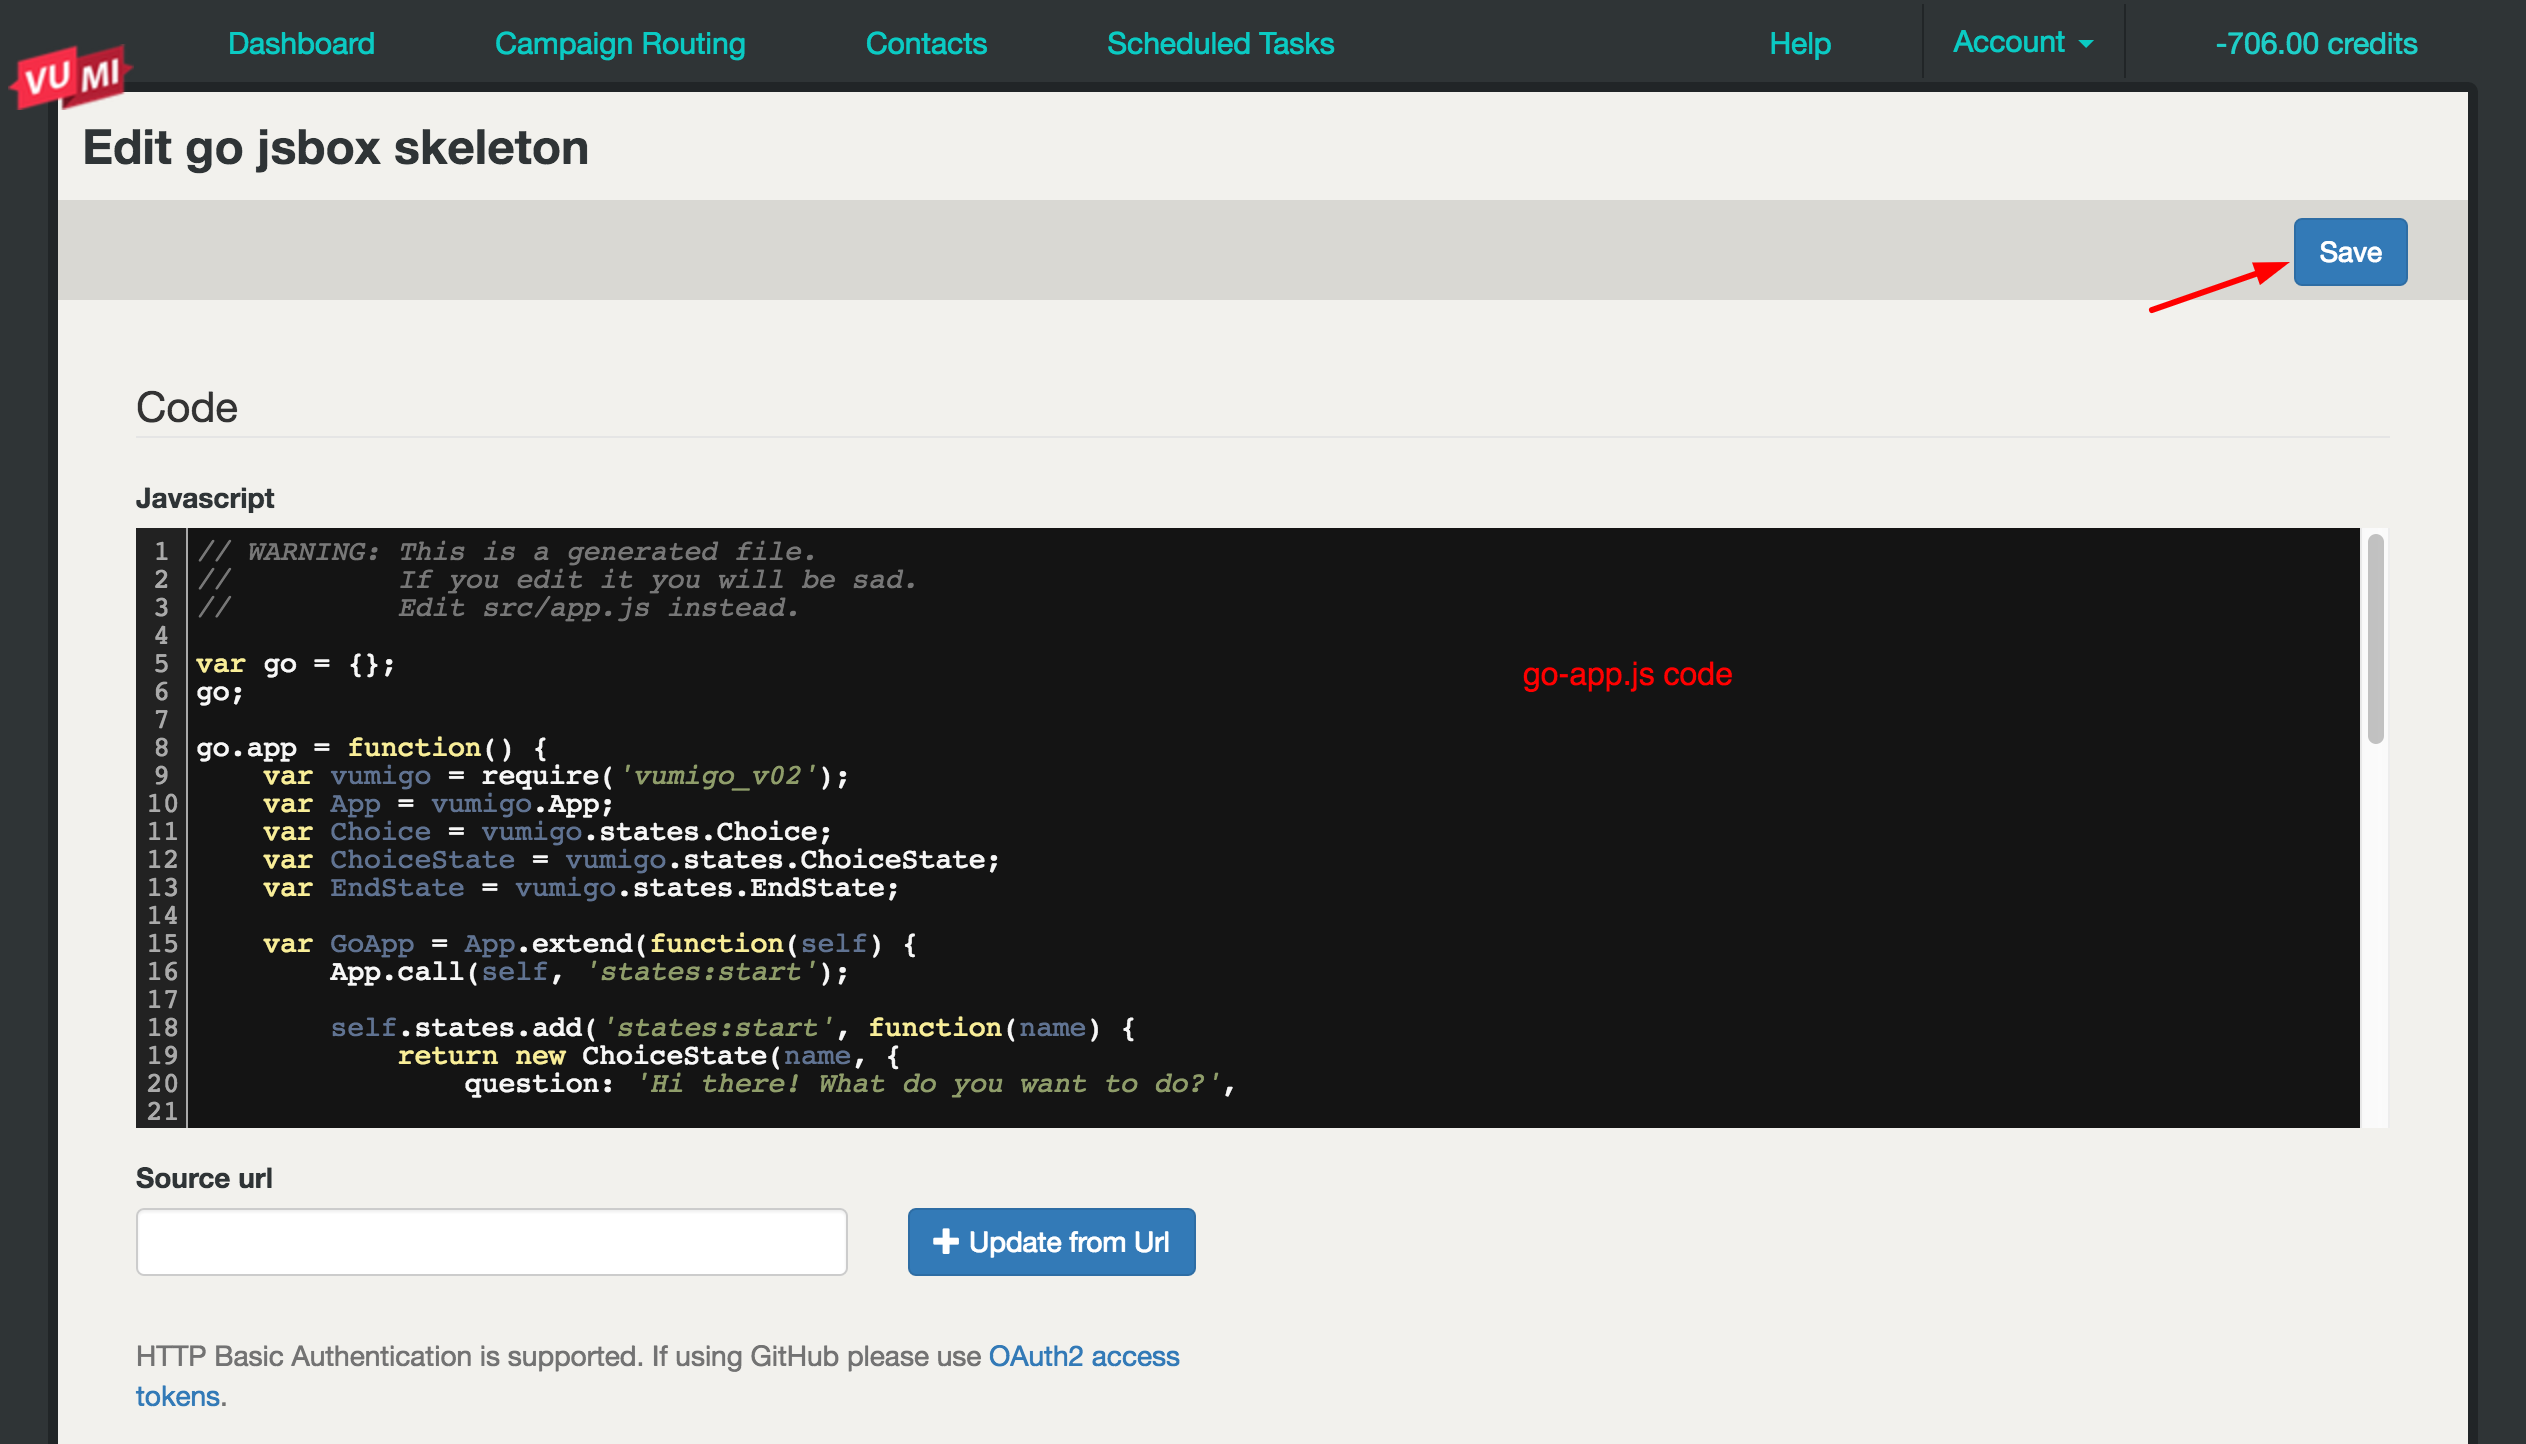
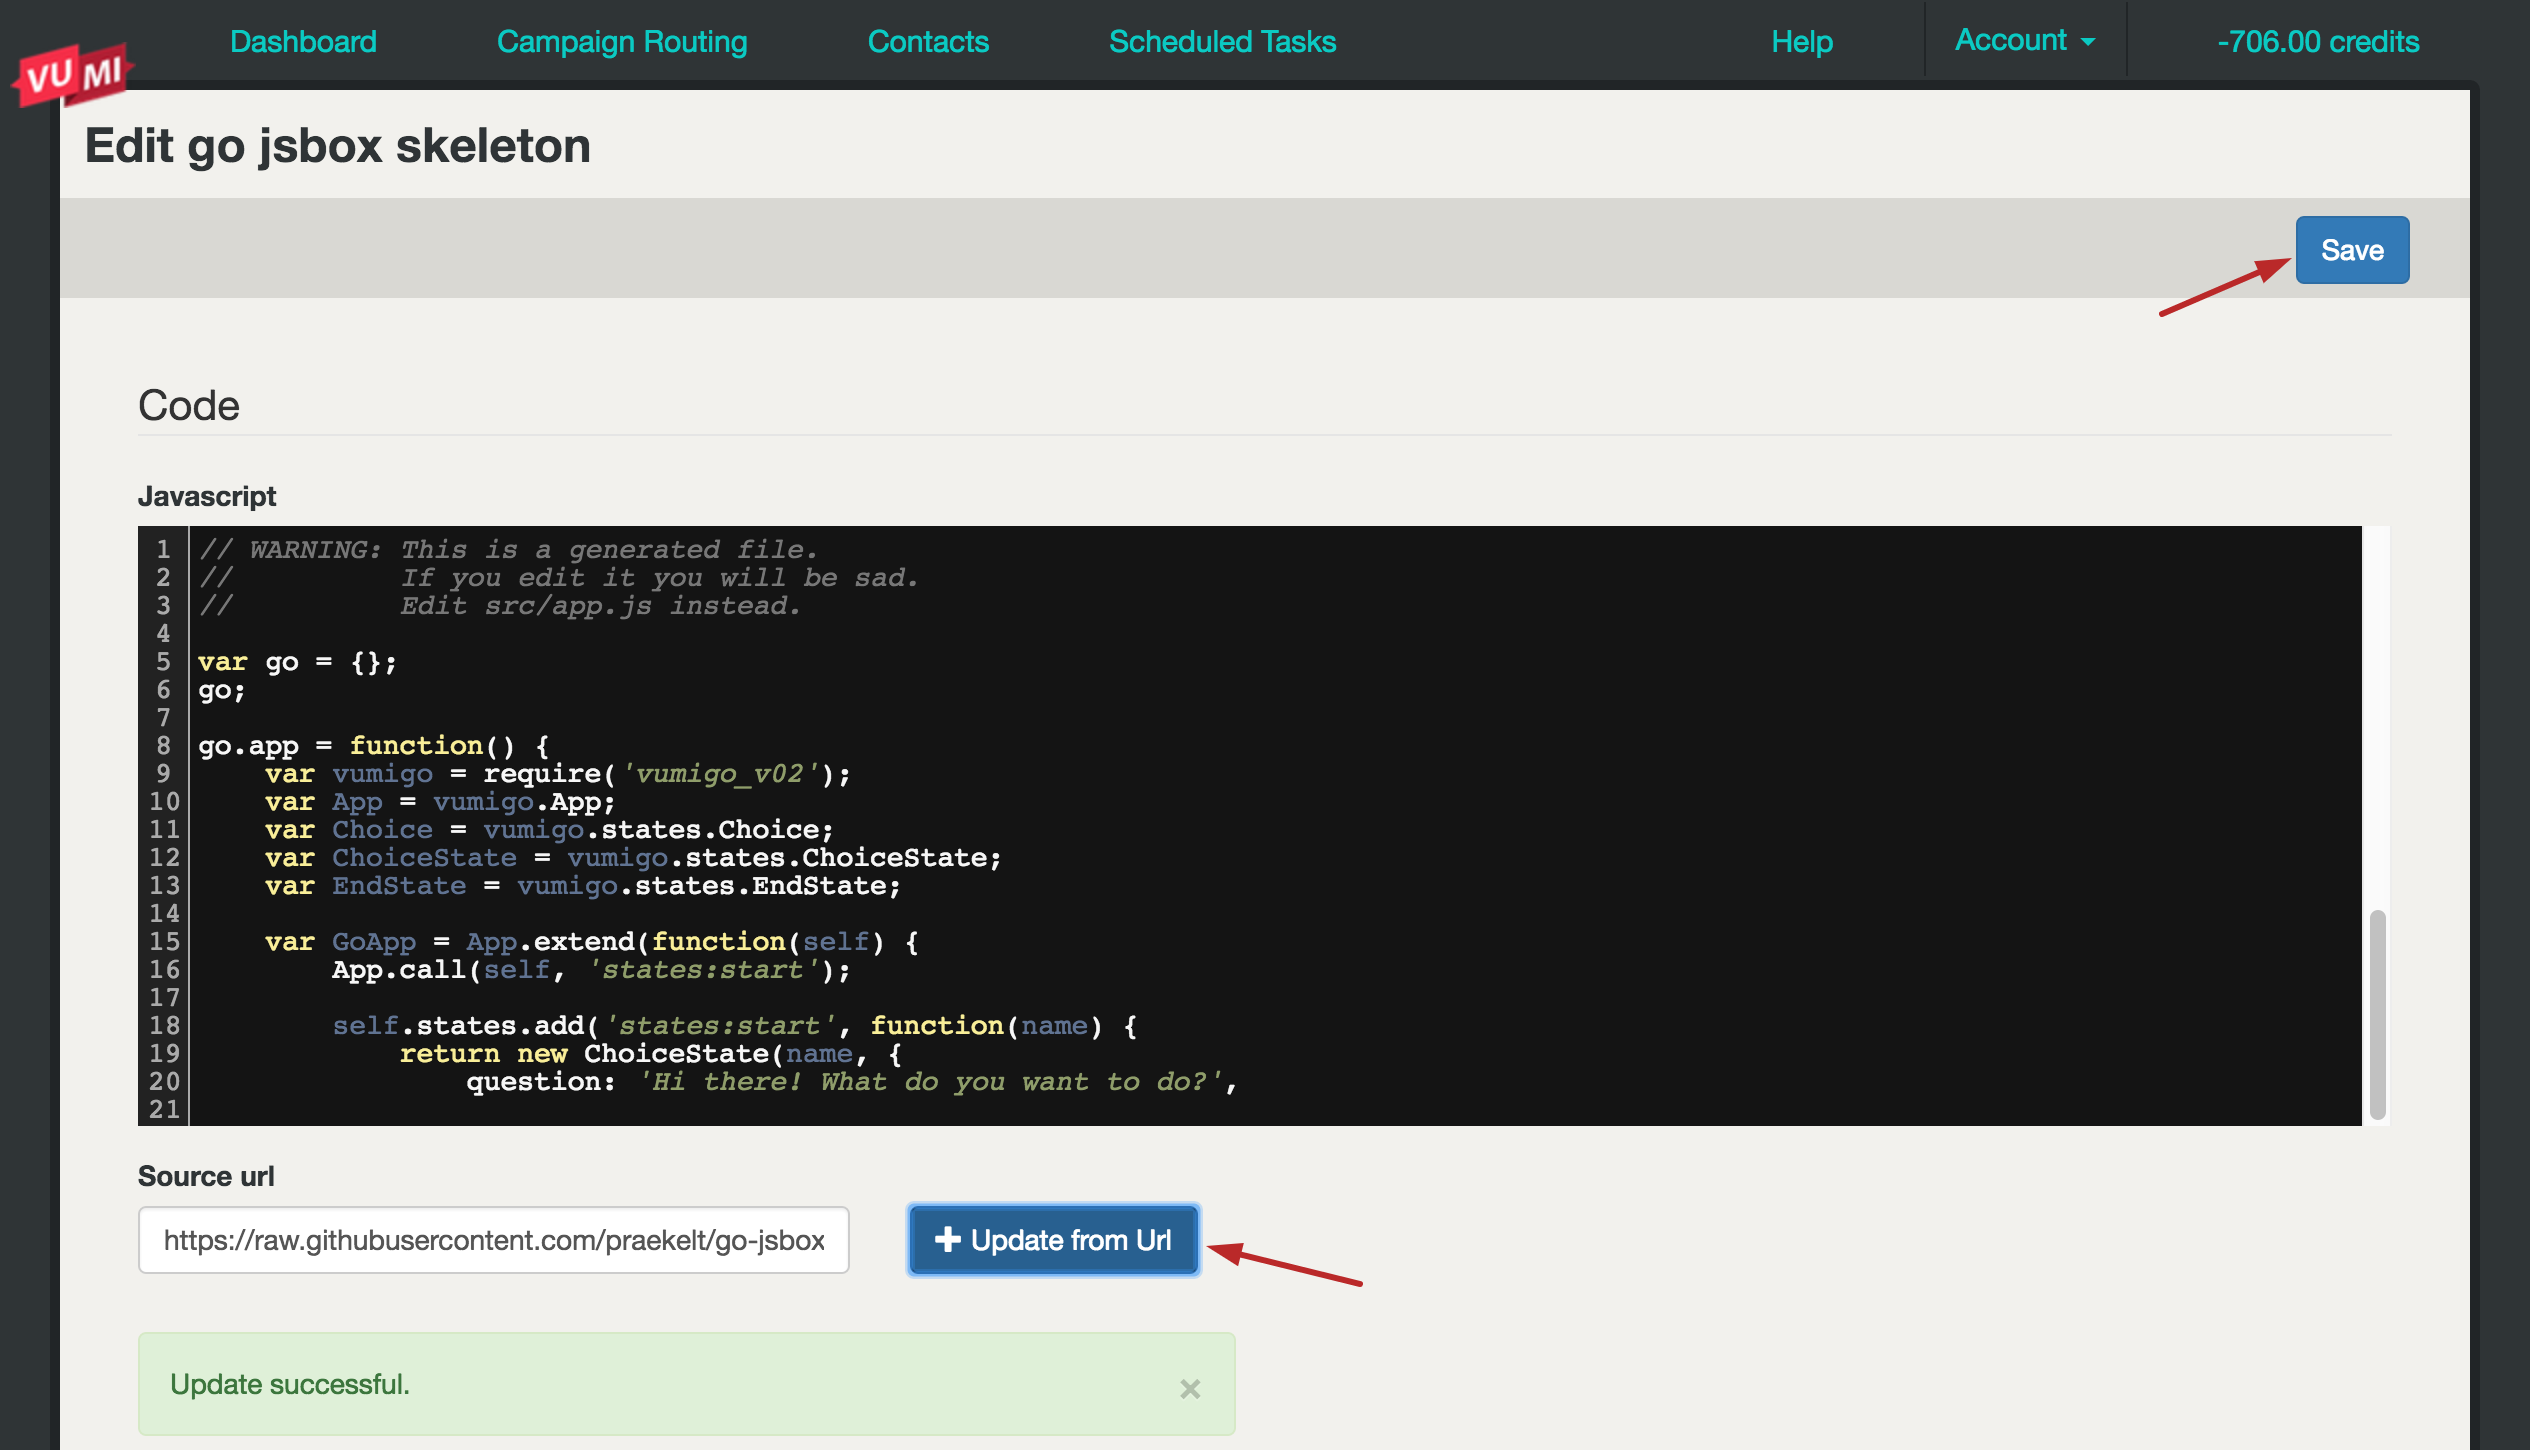
use github raw code url

diff --git a/docs/tutorial/deploying_to_VumiGo.rst b/docs/tutorial/deploying_to_VumiGo.rst
@@ -53,7 +53,7 @@ To create a new conversation the steps are as follows:
 
 .. figure::  images/create_new_conversation.png
 
-- Now copy the code in `go-app.js <https://github.com/praekelt/go-jsbox-skeleton/blob/develop/go-app.js>`_ file and paste it here:
+- Now copy the github raw code url for `go-app.js <https://raw.githubusercontent.com/praekelt/go-jsbox-skeleton/develop/go-app.js>`_ and paste it in source url field. After you load the URL it'll show up in the editor. Click **update from url** and then click **save**.
 
 .. figure::  images/save_conversation.png
 
